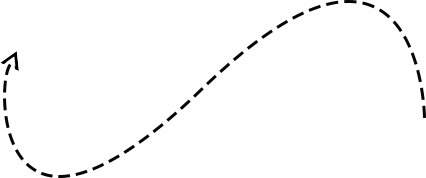
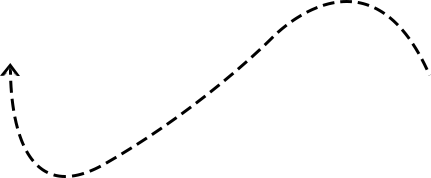
feat: almost done hero section

diff --git a/src/app/portfolio/components/pages/HeroSection.tsx b/src/app/portfolio/components/pages/HeroSection.tsx
@@ -1,8 +1,8 @@
 import Heading from '../ui/text/global/Heading';
 import Paragraph from '../ui/text/global/Paragraph';
 import Subheading from '../ui/text/global/Subheading';
-import mi from '../../../../assets/img/yo-mi.png';
-import line from '../../../../assets/img/line.png';
+import HeroImage from '../ui/hero/HeroImage';
+import WigglyArrow from '../ui/hero/WigglyArrow';
 
 const HeroSection = () => {
   // const width = window.innerWidth;
@@ -10,23 +10,11 @@ const HeroSection = () => {
   return (
     <>
       {/* SECTION 1 */}
-      <div className="relative mx-auto grid max-w-6xl grid-rows-2 pt-20 lg:pt-4 xl:grid-flow-col xl:pt-16 2xl:pt-10 3xl:pt-16">
-        {/* CIRCLE */}
-        <div className="absolute inset-0 top-1/3 m-auto aspect-square w-[38%] -translate-y-10 transform overflow-hidden rounded-full shadow-[0_10px_4px_#483c33] dark:shadow-[0_10px_4px_#edb33c]">
-          <img
-            src={mi} // Replace with your image URL
-            alt="Circle Image"
-            className="h-full w-full object-cover"
-          />
-        </div>
-        {/* LINE */}
-        <img
-          src={line} // Replace with your image URL
-          alt="Floating Hero"
-          className="absolute left-[10%] top-[50%] w-[30%] max-w-xs -translate-y-1/2 transform object-contain md:max-w-md"
-        />
+      <div className="relative mx-auto max-w-6xl pt-20 lg:pt-4 xl:grid xl:grid-flow-col xl:grid-rows-2 xl:pt-16 2xl:px-7 2xl:pt-10 3xl:pt-16">
+        <HeroImage />
+        <WigglyArrow />
         {/* SECTION 1 */}
-        <div className="w-full content-center justify-center border border-slate-300 p-4 xl:min-h-56 xl:content-start xl:justify-start 2xl:min-h-64 3xl:min-h-80">
+        <div className="w-full justify-center border border-slate-300 p-4 xl:min-h-64 xl:content-start xl:justify-start 2xl:min-h-64 3xl:min-h-80">
           <div>
             <Subheading
               font="font-kalam"
@@ -35,15 +23,13 @@ const HeroSection = () => {
             >
               Yo! I Am
             </Subheading>
-            <div className="mt-2">
-              <Heading
-                font="font-robotCondense"
-                fontWeight="font-bold"
-                styles="tracking-widest text-[#edb33c] dark:text-[#edb33c] drop-shadow-sm text-center xl:text-left"
-              >
-                Adrian
-              </Heading>
-            </div>
+            <Heading
+              font="font-robotCondense"
+              fontWeight="font-bold"
+              styles="tracking-widest text-[#edb33c] dark:text-[#edb33c] drop-shadow-sm text-center xl:text-left mt-2"
+            >
+              Adrian
+            </Heading>
           </div>
         </div>
         {/* SECTION 2 */}

diff --git a/src/app/portfolio/components/ui/hero/HeroImage.tsx b/src/app/portfolio/components/ui/hero/HeroImage.tsx
@@ -1,0 +1,15 @@
+import mi from '../../../../../assets/img/yo-miii.png';
+
+const HeroImage = () => {
+  return (
+    <div className="inset-0 top-1/3 z-10 m-auto aspect-square -translate-y-10 transform rounded-full md:w-[25%] xl:absolute xl:w-[40%] 2xl:w-[45%]">
+      <img
+        src={mi} // Replace with your image URL
+        alt="My Portrait"
+        className="h-full w-full object-cover drop-shadow-[0_6px_1px_rgba(72,60,51,1)] filter dark:drop-shadow-[0_6px_1px_rgba(237,179,60,1)]"
+      />
+    </div>
+  );
+};
+
+export default HeroImage;

diff --git a/src/app/portfolio/components/ui/hero/WigglyArrow.tsx b/src/app/portfolio/components/ui/hero/WigglyArrow.tsx
@@ -1,0 +1,13 @@
+import line from '../../../../../assets/img/line.png';
+
+const WigglyArrow = () => {
+  return (
+    <img
+      src={line} // Replace with your image URL
+      alt="Line"
+      className="z-1 absolute hidden max-w-xs -translate-y-1/2 rotate-[10deg] transform object-contain dark:invert md:max-w-md xl:left-[8%] xl:top-[46%] xl:block xl:w-[32%] xl:rotate-[5deg] 2xl:left-[10%] 2xl:top-[42%] 2xl:w-[30%] 3xl:left-[10%] 3xl:top-[43%] 3xl:w-[30%] 3xl:rotate-[7deg]"
+    />
+  );
+};
+
+export default WigglyArrow;

diff --git a/vite.config.ts b/vite.config.ts
@@ -1,7 +1,13 @@
-import { defineConfig } from 'vite'
-import react from '@vitejs/plugin-react'
+import { defineConfig } from 'vite';
+import react from '@vitejs/plugin-react';
+import path from 'path';
 
 // https://vitejs.dev/config/
 export default defineConfig({
   plugins: [react()],
-})
+  resolve: {
+    alias: {
+      '@': path.resolve(__dirname, './src')
+    }
+  }
+});

diff --git a/src/app/portfolio/components/layouts/Rootlayout.tsx b/src/app/portfolio/components/layouts/Rootlayout.tsx
@@ -4,7 +4,9 @@ import HeroSection from '../pages/HeroSection';
 const RootLayout = () => {
   return (
     <div>
-      <Navbar />
+      <div className="relative z-50">
+        <Navbar />
+      </div>
       <div className="max-w-8xl mx-auto min-h-91 px-6 pt-10 3xl:min-h-93">
         <HeroSection />
       </div>
